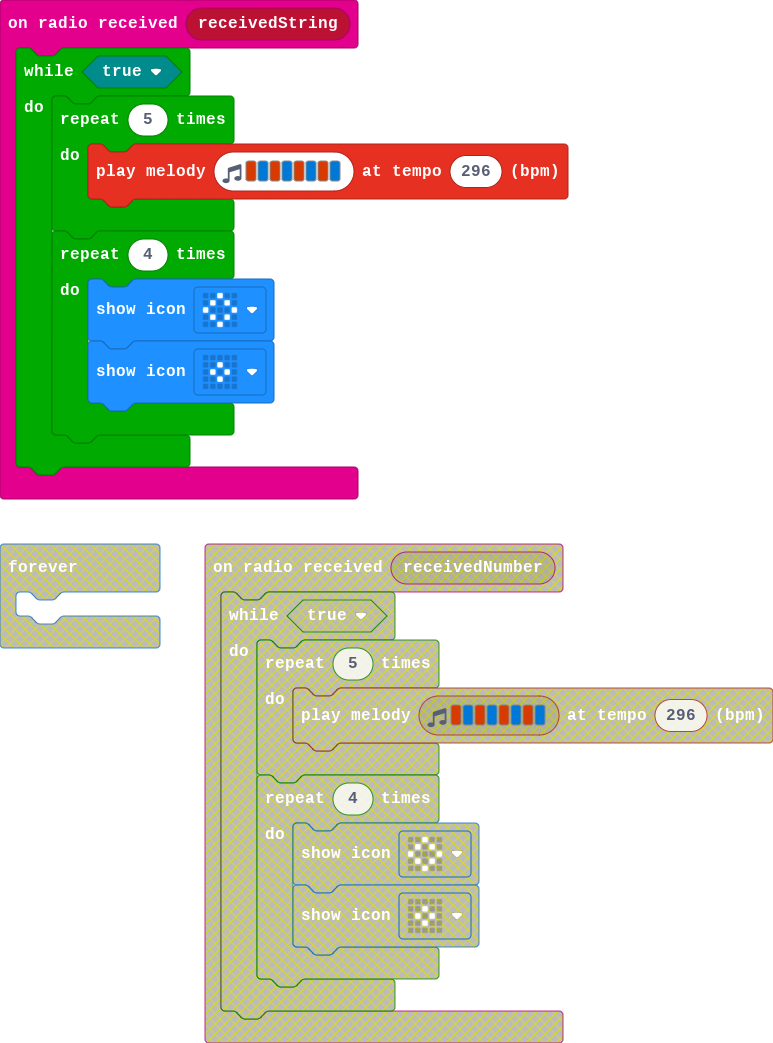
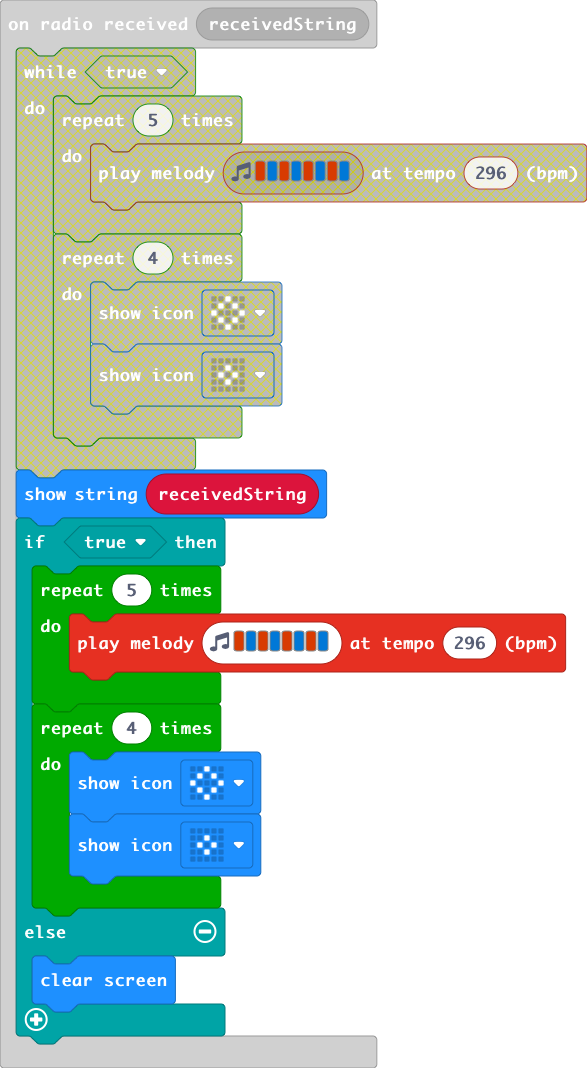
Update main.blocks, main.ts

diff --git a/main.ts b/main.ts
@@ -1,5 +1,6 @@
 radio.onReceivedString(function (receivedString) {
-    while (true) {
+    basic.showString(receivedString)
+    if (true) {
         for (let index = 0; index < 5; index++) {
             music.playMelody("B E B E B E B E ", 296)
         }
@@ -7,6 +8,8 @@ radio.onReceivedString(function (receivedString) {
             basic.showIcon(IconNames.Diamond)
             basic.showIcon(IconNames.SmallDiamond)
         }
+    } else {
+        basic.clearScreen()
     }
 })
 radio.setGroup(8148)
